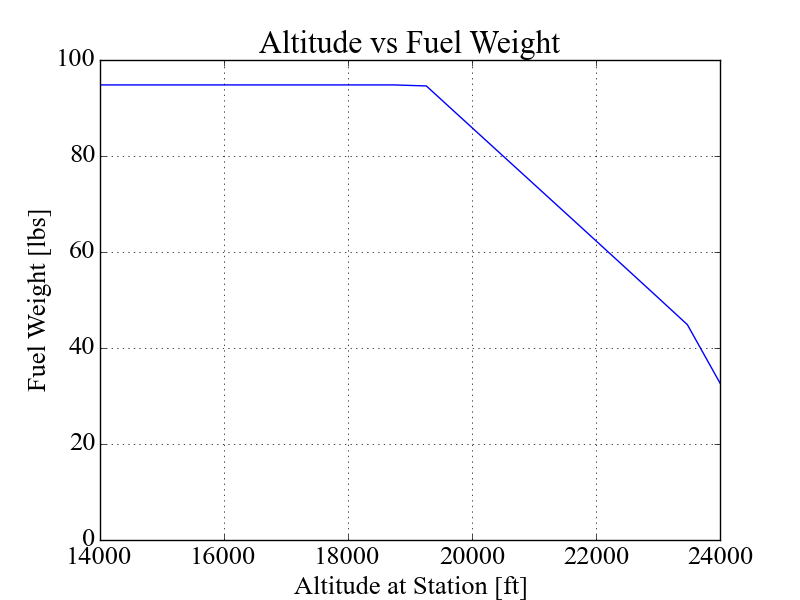
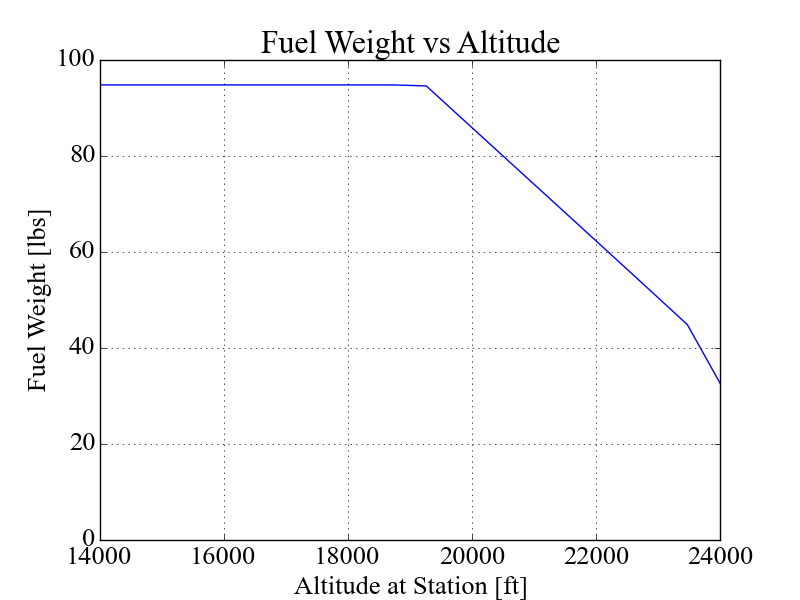
add trade off of payload and endurance and modified payload weight endurance

Changed region(s): [[0.3125, 0.03, 0.7188, 0.09]]

diff --git a/1682/gas_male/gas_male_fixCDRhtry.py b/1682/gas_male/gas_male_fixCDRhtry.py
@@ -6,6 +6,7 @@ import gpkit
 import numpy as np
 import plotly.plotly as py
 import plotly.tools as tls
+import pandas as pd
 import pdb
 gpkit.settings['latex_modelname'] = False
 plt.rc('font', family='serif') 
@@ -16,6 +17,9 @@ PLOT = True
 fixed = True
 wind = False
 mission = False
+W_pay = True
+P_pay = False
+altitude = False
 
 class GasPoweredHALE(Model):
     def __init__(self, h_station=15000, NLoiter=20, NClimb1=10, NClimb2=10, NCruise1=5, NCruise2=5,**kwargs):
@@ -673,39 +677,66 @@ if __name__ == '__main__':
         
         if wind:
 
-            M.substitutions.update({'V_{wind}': ('sweep', np.linspace(5, 40, 15))})
+            M.substitutions.update({'V_{wind}': ('sweep', np.linspace(5, 25, 20))})
             sol = M.solve(solver='mosek', verbosity=0, skipsweepfailures=True)
 
             V_wind = sol('V_{wind}')
             t_station = sol('t_{station}')
 
+
             plt.close()
             plt.plot(V_wind, t_station)
             plt.plot([20,20], [0,10], '--', color='r')
-            plt.title('Wind Speed vs Endurnace')
+            plt.title('Endurance vs Wind Speed')
             plt.xlabel('Wind Speed on Station [m/s]')
             plt.ylabel('Time on Station [days]')
             plt.grid()
             plt.axis([5, 40, 0, 10])
             plt.savefig('tvsV_wind.png')
 
-        else:
+        if P_pay:
 
-            M.substitutions.update({'W_{pay}': ('sweep', np.linspace(5, 40, 15))})
+            M.substitutions.update({'P_{pay}': ('sweep', np.linspace(5, 200, 40))})
+            sol = M.solve(solver='mosek', verbosity=0, skipsweepfailures=True)
+
+            P_pay = sol('P_{pay}')
+            t_station = sol('t_{station}')
+            
+
+            plt.close()
+            plt.plot(P_pay, t_station)
+            plt.title('Endurance vs Payload Power')
+            plt.xlabel('Payload Power [Watts]')
+            plt.ylabel('Time on Station [days]')
+            plt.grid()
+            plt.axis([5, 200, 0, 10])
+            plt.savefig('tvsP_pay.png')
+
+        if W_pay:
+
+            M.substitutions.update({'W_{pay}': ('sweep', np.linspace(5, 20, 16))})
             sol = M.solve(solver='mosek', verbosity=0, skipsweepfailures=True)
 
             W_pay = sol('W_{pay}')
             t_station = sol('t_{station}')
 
+            df = pd.read_csv('trimDrag.csv')
+            df = df.dropna()
+            CD10 = df['CD_interp'][df['W_pay_interp']==10]
+            CD_norm = np.array(df['CD_interp'])/np.array(CD10)
+            t_station = t_station/CD_norm
+            
+
             plt.close()
             plt.plot(W_pay, t_station)
-            plt.title('Payload Weight vs Endurnace')
+            plt.title('Endurance vs Payload Weight')
             plt.xlabel('Payload Weight [lbs]')
             plt.ylabel('Time on Station [days]')
             plt.grid()
-            plt.axis([5, 40, 0, 10])
+            plt.axis([5, 20, 0, 10])
             plt.savefig('tvsW_pay.png')
 
+        if altitude:
             # plot for h vs h_station
             h_station = np.linspace(14000, 24000, 20)
             t_station = []
@@ -751,7 +782,7 @@ if __name__ == '__main__':
 
             plt.close()
             plt.plot(h_station, t_station)
-            plt.title('Altitude vs Endurance')
+            plt.title('Endurance vs Altitude')
             plt.xlabel('Altitude at Station [ft]')
             plt.ylabel('Time on Station [days]')
             plt.grid()
@@ -760,7 +791,7 @@ if __name__ == '__main__':
             
             plt.close()
             plt.plot(h_station, W_fueltot)
-            plt.title('Altitude vs Fuel Weight')
+            plt.title('Fuel Weight vs Altitude')
             plt.xlabel('Altitude at Station [ft]')
             plt.ylabel('Fuel Weight [lbs]')
             plt.grid()
